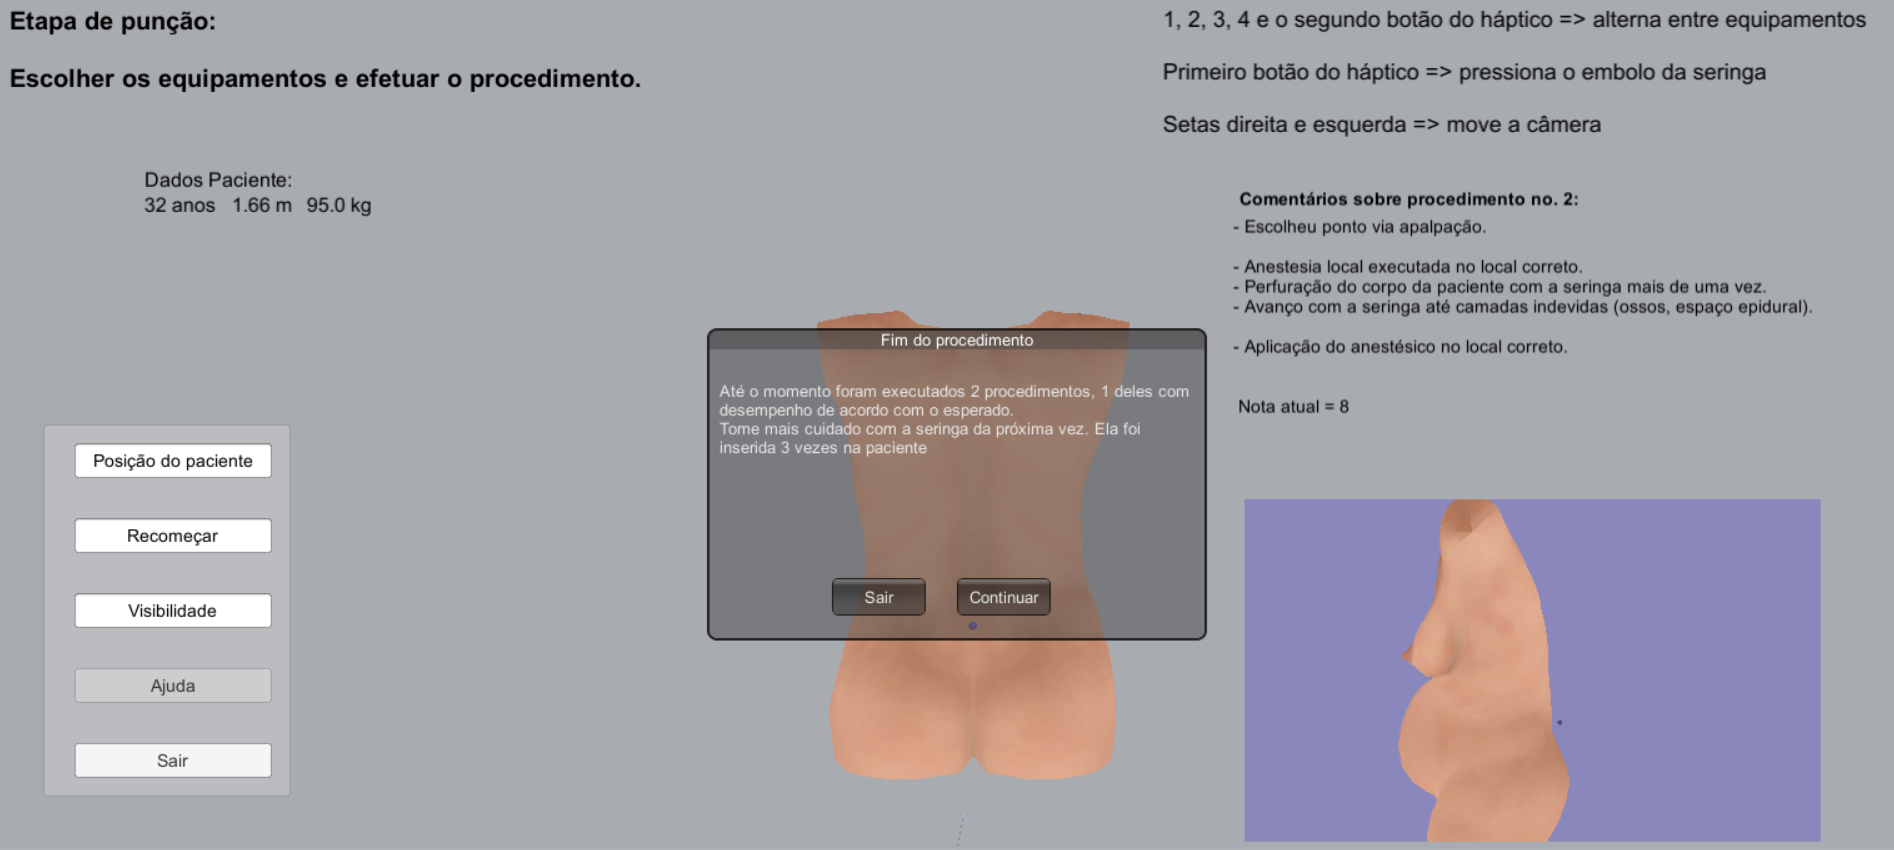
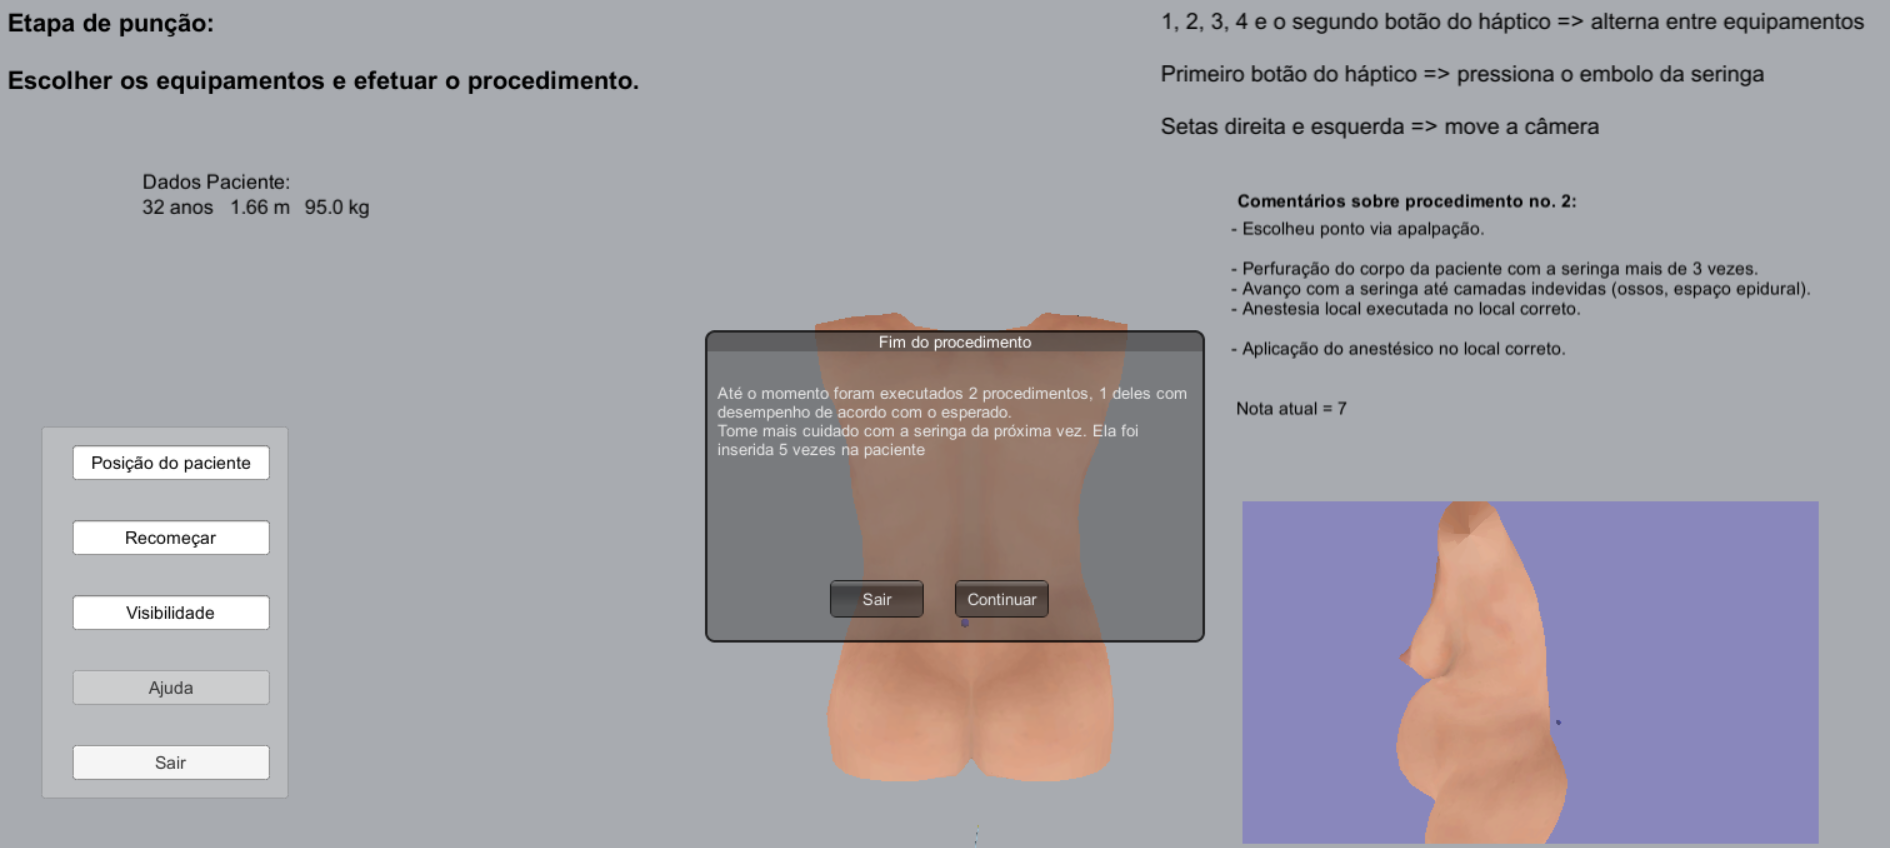
Updates from Overleaf

diff --git a/capitulos/cap4.tex b/capitulos/cap4.tex
@@ -157,11 +157,30 @@ Para configuração do \textit{Haptic Plug-In For Unity3D} \cite{Poyade2014} que
 
 \section {Etapas da simulação}
 
-O simulador ao ser iniciado apresenta uma paciente dentre as seis pré-configuradas ilustradas na Figura~\ref{fig:pacientesMaiorParaMenorIMCVisaoTroncoELateral}. Nestas existem pacientes com peso considerado normal, excesso de peso e obesas \cite{MTILLC2019}. O usuário deve então usar o dispositivo háptico para interagir com o ambiente virtual
+O simulador ao ser iniciado apresenta uma paciente dentre as seis pré-configuradas ilustradas na Figura~\ref{fig:pacientesMaiorParaMenorIMCVisaoTroncoELateral}. Nestas existem pacientes com peso considerado normal, excesso de peso e obesas \cite{MTILLC2019}. O usuário deve então usar o dispositivo háptico para interagir com o ambiente virtual. Ao ser iniciado o sistema e a cada inicio de procedimento em uma nova paciente ao movimentar o dispositivo háptico o item que representa o dedo é movimentado no ambiente virtual de treinamento. O item no ambiente 3D que representa o dedo pode ser observado na Figura~\ref{fig:elementosDeInteracao} (a) do lado direito do tronco da paciente. Outro item a ser observado nesta imagem é uma esfera azul que indica onde foi o último toque do dedo no corpo da paciente. O último ponto tocado foi a estratégia definida para determinação da escolha do ponto de inserção da agulha na simulação. Nas Figuras~\ref{fig:elementosDeInteracao} (b) e (c) estão atrás do tronco da paciente respectivamente a seringa para anestesia local e a agulha usada para aplicação da raquianestesia. No momento da aplicação da raquianestesia uma seringa é conectada no final da agulha como pode ser visto pela visão lateral na Figura~\ref{fig:agulhaRaquiSeringa}.
 
-Primeiro ele precisa identificar via apalpação um dos pontos de inserção da agulha possíveis. Em seguida é necessário aplicar o anestésico local neste ponto de inserção da agulha inserindo a seringa somente até a camada da gordura subcutânea (perfurando somente a camada corporal) para aplicação. Então ele precisa inserir a agulha de raquianestesia neste ponto e avançar pelas camadas até o espaço subaracnóide onde precisa então ministrar a anestesia. Os procedimentos são finalizados no momento que é aplicada a raquianestesia, ou seja, ao ser pressionado o embolo da seringa conectada na agulha.
+\begin{figure}[ht!]
+    \centering
+        \begin{tabular}{ccc}
+        \includegraphics[width=0.3\linewidth]{capitulos/figuras/corpo-paciente-apos-apalpacao-dedo.png} & 
+        \includegraphics[width=0.27\linewidth]{capitulos/figuras/corpo-paciente-seringa.png} & 
+        \includegraphics[width=0.27\linewidth]{capitulos/figuras/corpo-paciente-agulha-raqui.png} 
+        \\
+        (a) & (b) & (c)
+        \end{tabular}
+    \caption{Elementos 3D de interação com o ambiente representativos do: (a) Dedo (b) Seringa para anestesia local (c) Agulha de raquianestesia.}
+    \label{fig:elementosDeInteracao}
+\end{figure}
 
-O usuário precisa ter uma média de notas acima de seis na execução de procedimentos usando o simulador para que sua habilidade seja considerada satisfatória. É necessário completar a execução de ao menos três procedimentos tendo a média acima de seis para que a habilidade do usuário seja considerada como satisfatória. A nota final corresponde a média da nota obtida em todos os procedimentos executados. No casos de não se atingir a média seis nos três primeiros procedimentos será necessário executar tantos procedimentos quanto forem necessários para se chegar a média seis considerando todos os procedimentos executados. São apresentados \textit{feedbacks} para o usuário durante e ao final de cada procedimento executado em cada um dos pacientes.  
+\begin{figure}[ht!]
+    \centering
+    \includegraphics[width=0.4\linewidth]{capitulos/figuras/corpo-visao-lateral-agulhaRaquiSeringa.png} 
+    \caption{Visão lateral do corpo da paciente com aproximação da agulha de raquianestesia com a seringa conectada.}
+    \label{fig:agulhaRaquiSeringa}
+\end{figure}
+
+Cada procedimento no simulador é considerado como sendo finalizado no momento que é aplicada a raquianestesia, ou seja, ao ser pressionado o embolo da seringa conectada na agulha desde que esta esteja dentro do corpo do paciente.
+É necessário completar a execução de ao menos três procedimentos tendo a média acima de seis para que a habilidade do usuário seja considerada como satisfatória. A nota final corresponde a média da nota obtida em todos os procedimentos executados. No casos de não se atingir a média seis nos três primeiros procedimentos será necessário executar tantos procedimentos quanto forem necessários para se chegar a média seis considerando todos os procedimentos executados.   
 
 A Tabela~\ref{tab:PontosNotaProcedimento} ilustra a pontuação para formação da nota de cada procedimento. Para cada procedimento a nota inicia em zero. Itens feitos corretamente e na sequência correta tem pontuação negativa e itens feitos de forma incorreta ou não feitos tem pontuação negativa. Para algumas ações não feitas ao invés da pontuação negativa não é aplicada nenhuma penalização uma vez que a não execução correta já acarreta em penalização por não adicionar pontuação positiva na nota. 
 
@@ -174,7 +193,8 @@ A Tabela~\ref{tab:PontosNotaProcedimento} ilustra a pontuação para formação 
 \textbf{Item executado} & \textbf{Ponto}\\
 \hline\hline
 Execução da apalpação para determinação do local de inserção da agulha & +1\\
-Perfuração do corpo com seringa ou agulha antes da apalpação & -1\\
+%Perfuração do corpo com seringa ou agulha antes da apalpação & -1\\
+Anestesia local não aplicada & -1\\
 Anestesia local aplicada com a seringa no local correto & +3\\
 Avanço com a seringa até camadas indevidas (ex. ossos, espaço epidural) & -1\\
 Perfuração do corpo da paciente duas ou três vezes (com seringa ou agulha) & -1\\
@@ -182,11 +202,12 @@ Perfuração do corpo da paciente quatro vezes ou mais (com seringa ou agulha) &
 Inseriu a agulha de raquianestesia sem antes aplicar a anestesia local & -1\\
 Aplicação da raquianestesia em local diferente do espaço subaracnóide & -3\\
 Aplicação da raquianestesia no espaço subaracnóide & +6\\
+\hline
 \end{tabular}
 \end{center}
 \end{table}
 
-As Figuras \ref{fig:sistemaExecucao1RaquiLocalIncorreto}, \ref{fig:sistemaExecucao2seringa}, \ref{fig:sistemaExecucao3faltouApalpacaoAnestesiaLocal}, \ref{fig:sistemaExecucao4correto} e \ref{fig:sistemaExecucao5semApalpacao} mostram uma sequência de possíveis execuções de anestesias ilustrando diferentes erros e acertos durante cada procedimento que são visualizados no \textit{feedback} a direita durante os procedimentos e na janela de \textit{popup} ao final de cada um.  
+São apresentados \textit{feedbacks} para o usuário durante e ao final dos procedimento executado em cada uma das pacientes. As Figuras \ref{fig:sistemaExecucao1RaquiLocalIncorreto}, \ref{fig:sistemaExecucao2seringa}, \ref{fig:sistemaExecucao3faltouApalpacaoAnestesiaLocal}, \ref{fig:sistemaExecucao4correto} e \ref{fig:sistemaExecucao5semApalpacao} mostram uma sequência de possíveis execuções de anestesias ilustrando diferentes erros e acertos durante cada procedimento que são visualizados no \textit{feedback} a direita durante os procedimentos e na janela de \textit{popup} ao final de cada um.  
 
 \begin{figure}[ht!]
     \centering
@@ -198,7 +219,7 @@ As Figuras \ref{fig:sistemaExecucao1RaquiLocalIncorreto}, \ref{fig:sistemaExecuc
 \begin{figure}[ht!]
     \centering
     \includegraphics[width=\textwidth]{capitulos/figuras/sistema-exemplo-execucao-procedimento-2.png} 
-    \caption{Exemplo de finalização de um segundo procedimento onde a seringa foi inserida três vezes no corpo da paciente e esta tocou partes indevidas.}
+    \caption{Exemplo de finalização de um segundo procedimento onde a seringa foi inserida mais de três vezes no corpo da paciente e esta tocou partes indevidas.}
     \label{fig:sistemaExecucao2seringa}
 \end{figure}
 
